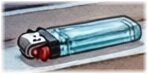
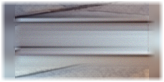
2026-10-17 打火机窗台纹理合成重建+sprite 背景像素级对齐+星月诊断版
【F1 打火机窗台·纹理合成法】
- 告别纯渐变（质感假）：低频结构=左右端点渐变，高频质感=右侧真实窗台纹理平移叠加
- 左右边界柔化——补丁不再突兀
- sprite 背景改用「当前底图同位置像素」重建+打火机本体羽化叠回——
  贴片与底图像素级一致，一开始/收集后都无接缝（AI 重绘方案否决：整图被改）

【F6 星月诊断版】_Ready 包 try-catch（异常直打控制台）+完成打印
  headless 实测：章节加载成功/电量同步 60%/零异常——代码链路已通，
  boss 端是构建时序问题（修复写入晚于他的试玩）

验证：0错+冒烟干净

diff --git a/scripts/chapters/Ch04.cs b/scripts/chapters/Ch04.cs
@@ -29,6 +29,8 @@ public partial class Ch04 : ChapterBase
 
     public override void _Ready()
     {
+        try
+        {
         base._Ready();
 
         hintLabel = GetNode<Label>("HintLabel");
@@ -78,6 +80,12 @@ public partial class Ch04 : ChapterBase
             hotspotsRoot.Visible = true;
             hintLabel.Visible = true;
         });
+        GD.Print("[星月] _Ready 完成，热点已放开");
+        }
+        catch (System.Exception e)
+        {
+            GD.PrintErr($"[星月] _Ready 异常: {e}");
+        }
     }
 
     private void OnHotspot(string id, Button btn)
